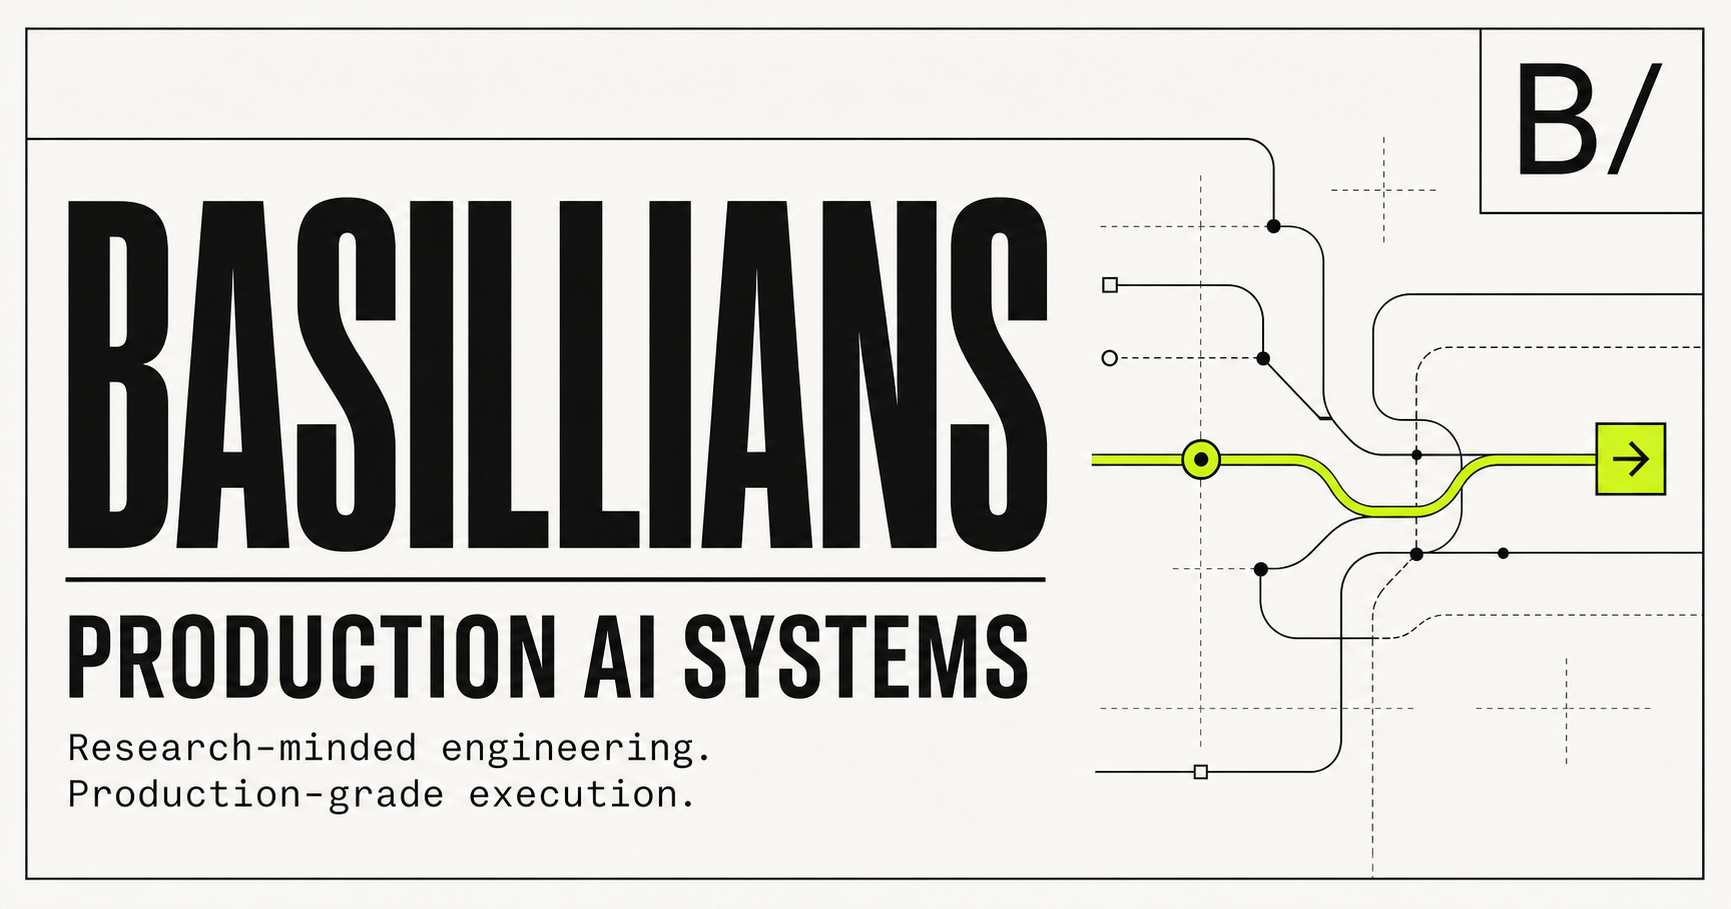
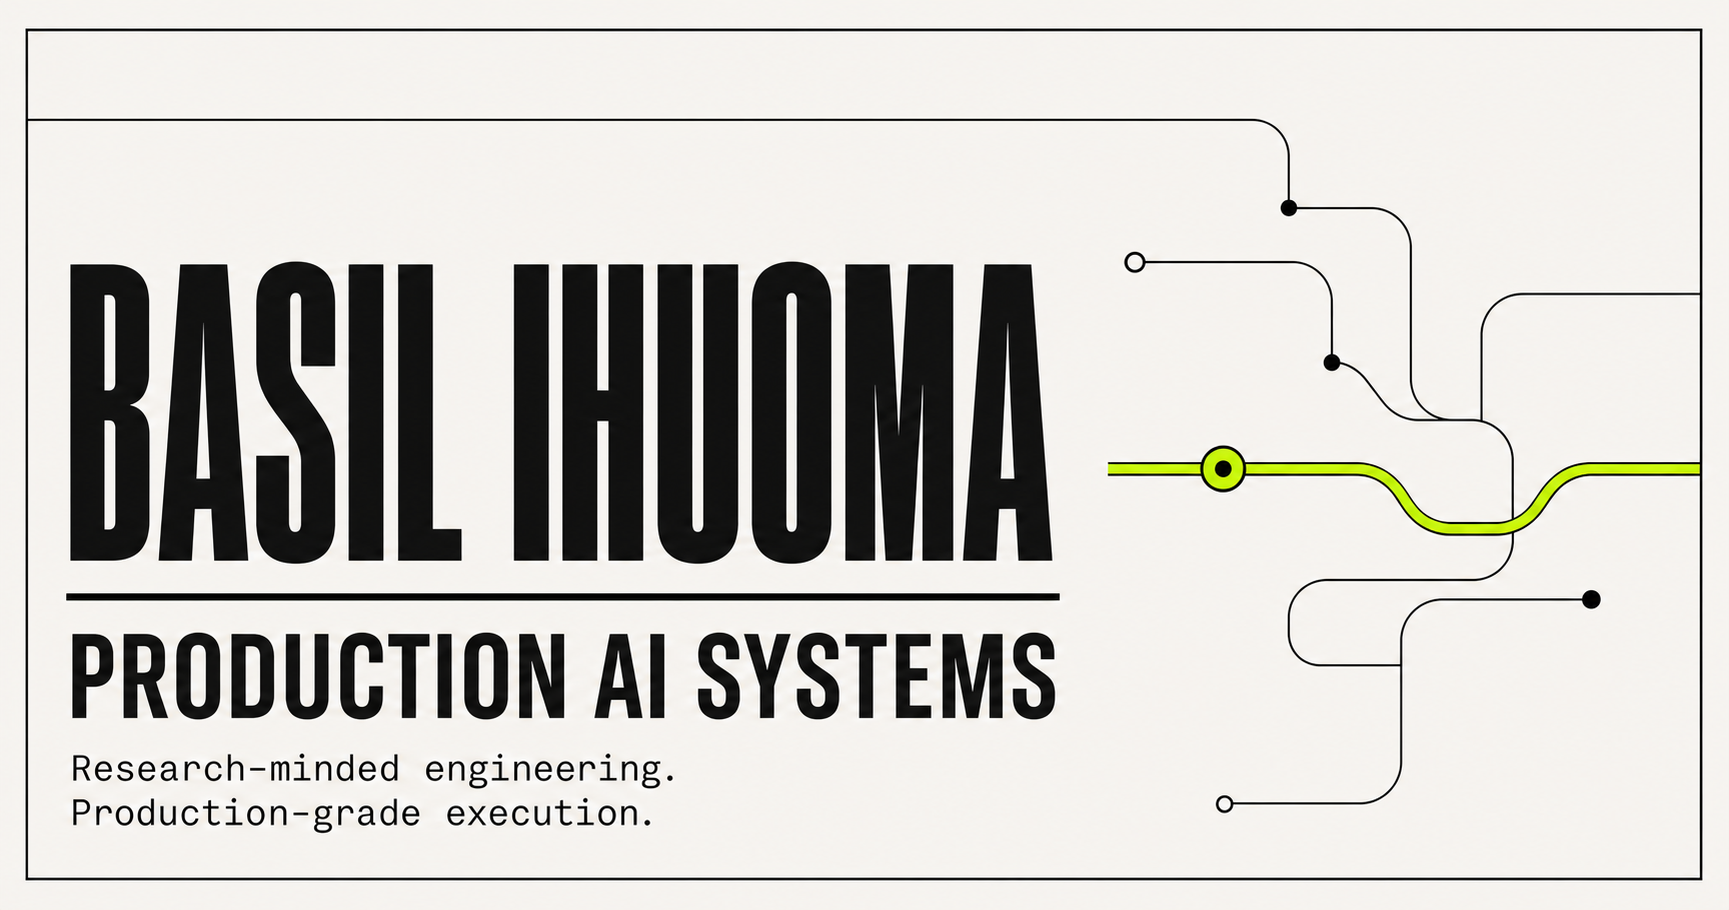
Refine portfolio identity and color system

diff --git a/app/globals.css b/app/globals.css
@@ -5,8 +5,8 @@
   --muted: #686b64;
   --paper: #f4f2ec;
   --line: #d6d4cc;
-  --acid: #c9ff2f;
-  --deep: #161d19;
+  --acid: #c8ff38;
+  --deep: #10110f;
 }
 
 * { box-sizing: border-box; }
@@ -28,12 +28,12 @@ a { color: inherit; text-decoration: none; }
   border-bottom: 1px solid var(--line);
 }
 .nav { height: 72px; display: flex; align-items: center; justify-content: space-between; }
-.brand { display: flex; align-items: center; gap: 12px; font-weight: 650; letter-spacing: -0.02em; }
-.mark { display: inline-grid; place-items: center; width: 34px; height: 34px; background: var(--ink); color: var(--acid); font: 700 13px var(--font-geist-mono); }
+.brand { display: flex; align-items: center; gap: 9px; font-weight: 650; letter-spacing: -0.025em; }
+.brand-dot { width: 7px; height: 7px; border-radius: 50%; background: var(--acid); box-shadow: 0 0 0 1px var(--ink); }
 .nav-links { display: flex; align-items: center; gap: 30px; font-size: 14px; color: #3f413d; }
 .nav-links a { transition: opacity .2s; }
 .nav-links a:hover { opacity: .55; }
-.nav-cta { padding: 10px 15px; color: var(--paper) !important; background: var(--ink); }
+.nav-cta { padding: 10px 15px; color: var(--ink) !important; background: var(--acid); border: 1px solid var(--ink); }
 
 .hero { min-height: 690px; padding-top: 96px; display: flex; flex-direction: column; }
 .eyebrow, .section-index {
@@ -47,12 +47,16 @@ a { color: inherit; text-decoration: none; }
   font-size: clamp(54px, 7.3vw, 104px); line-height: .94;
   letter-spacing: -.07em; font-weight: 590;
 }
-.hero h1 span { color: #70736c; }
+.hero h1 span {
+  display: inline;
+  color: var(--ink);
+  background: linear-gradient(transparent 72%, var(--acid) 72%);
+}
 .hero-copy { max-width: 630px; margin: 0; font-size: 20px; line-height: 1.55; color: var(--muted); letter-spacing: -.02em; }
 .hero-actions { display: flex; gap: 10px; margin-top: 36px; }
 .button { display: inline-flex; align-items: center; justify-content: space-between; gap: 30px; padding: 15px 18px; font-size: 14px; font-weight: 600; border: 1px solid var(--ink); transition: transform .2s, background .2s; }
 .button:hover { transform: translateY(-2px); }
-.button.primary { background: var(--ink); color: white; }
+.button.primary { background: var(--ink); color: white; box-shadow: inset 0 -3px 0 var(--acid); }
 .button.secondary:hover { background: white; }
 .capability-strip { display: grid; grid-template-columns: repeat(4, 1fr); margin-top: auto; border-top: 1px solid var(--line); }
 .capability-strip div { display: flex; flex-direction: column; gap: 16px; padding: 22px 24px 28px 0; border-right: 1px solid var(--line); }
@@ -67,7 +71,7 @@ a { color: inherit; text-decoration: none; }
 .section-heading > a { padding-bottom: 5px; font-size: 13px; border-bottom: 1px solid var(--ink); }
 .project-grid { display: grid; grid-template-columns: repeat(2, 1fr); gap: 18px; }
 .project-card { min-height: 410px; background: #ebe9e1; border: 1px solid var(--line); padding: 30px; display: flex; flex-direction: column; transition: transform .25s, background .25s; }
-.project-card:hover { transform: translateY(-5px); background: #eeece5; }
+.project-card:hover { transform: translateY(-5px); background: #eeece5; border-color: var(--ink); box-shadow: 5px 5px 0 var(--acid); }
 .project-card:nth-child(3) { grid-column: 1 / -1; min-height: 340px; }
 .card-top { display: flex; justify-content: space-between; align-items: center; }
 .card-number, .meta, .tag { font: 500 11px var(--font-geist-mono); letter-spacing: .06em; text-transform: uppercase; color: var(--muted); }
@@ -79,7 +83,7 @@ a { color: inherit; text-decoration: none; }
 
 .proof { padding: 110px 0; color: #f3f1e9; background: var(--deep); }
 .proof-grid { display: grid; grid-template-columns: 1.15fr 1fr; gap: 100px; }
-.section-index.light { color: #9ba39c; }
+.section-index.light { color: var(--acid); }
 .proof h2 { margin: 22px 0 0; max-width: 600px; font-size: clamp(40px, 5vw, 68px); line-height: 1; letter-spacing: -.055em; font-weight: 540; }
 .principles > div { padding: 24px 0; border-top: 1px solid #39423d; display: grid; grid-template-columns: 100px 1fr; gap: 25px; }
 .principles strong { color: var(--acid); font: 600 12px var(--font-geist-mono); text-transform: uppercase; }
@@ -96,6 +100,7 @@ a { color: inherit; text-decoration: none; }
 footer { padding: 55px 0; border-top: 1px solid var(--line); }
 .footer-inner { display: grid; grid-template-columns: 1fr auto auto; align-items: end; gap: 70px; color: var(--muted); font-size: 12px; }
 .footer-inner > div:first-child { display: flex; align-items: center; gap: 18px; }
+.footer-signature strong { color: var(--ink); font-size: 14px; white-space: nowrap; }
 .footer-inner p { margin: 0; max-width: 280px; line-height: 1.5; }
 .footer-links { display: flex; gap: 20px; color: var(--ink); }
 

diff --git a/app/layout.tsx b/app/layout.tsx
@@ -7,16 +7,16 @@ const geistMono = Geist_Mono({ variable: "--font-geist-mono", subsets: ["latin"]
 
 export const metadata: Metadata = {
   metadataBase: new URL("https://sillians.github.io"),
-  title: { default: "Basillians — ML Engineer", template: "%s — Basillians" },
+  title: { default: "Basil Ihuoma — ML Engineer", template: "%s — Basil Ihuoma" },
   description: "Senior ML engineer designing, building, and deploying production AI systems.",
   icons: { icon: "/favicon.svg", shortcut: "/favicon.svg" },
   openGraph: {
-    title: "Basillians — Production AI Systems",
+    title: "Basil Ihuoma — Production AI Systems",
     description: "Research-minded engineering. Production-grade execution.",
     url: "https://sillians.github.io",
-    siteName: "Basillians",
+    siteName: "Basil Ihuoma",
     type: "website",
-    images: [{ url: "/og.png", width: 1200, height: 630, alt: "Basillians — Production AI Systems" }],
+    images: [{ url: "/og.png", width: 1200, height: 630, alt: "Basil Ihuoma — Production AI Systems" }],
   },
   twitter: { card: "summary_large_image", images: ["/og.png"] },
 };

diff --git a/app/page.tsx b/app/page.tsx
@@ -101,12 +101,15 @@ export default function Home() {
       </main>
       <footer>
         <div className="shell footer-inner">
-          <div><span className="mark">B/</span><p>Building AI systems that survive contact with production.</p></div>
+          <div className="footer-signature">
+            <strong>Basil Ihuoma</strong>
+            <p>Building AI systems that survive contact with production.</p>
+          </div>
           <div className="footer-links">
             <a href="https://github.com/Sillians">GitHub ↗</a>
             <a href="mailto:hello@basillians.github.io">Email ↗</a>
           </div>
-          <span>© {new Date().getFullYear()} Basillians</span>
+          <span>© {new Date().getFullYear()} Basil Ihuoma</span>
         </div>
       </footer>
     </>

diff --git a/components/site-header.tsx b/components/site-header.tsx
@@ -4,7 +4,10 @@ export function SiteHeader() {
   return (
     <header className="site-header">
       <nav className="nav shell" aria-label="Main navigation">
-        <Link className="brand" href="/"><span className="mark">B/</span><span>Basillians</span></Link>
+        <Link className="brand" href="/">
+          <span>Basil Ihuoma</span>
+          <span className="brand-dot" aria-hidden="true" />
+        </Link>
         <div className="nav-links">
           <Link href="/projects">Projects</Link>
           <Link href="/research">Research</Link>
